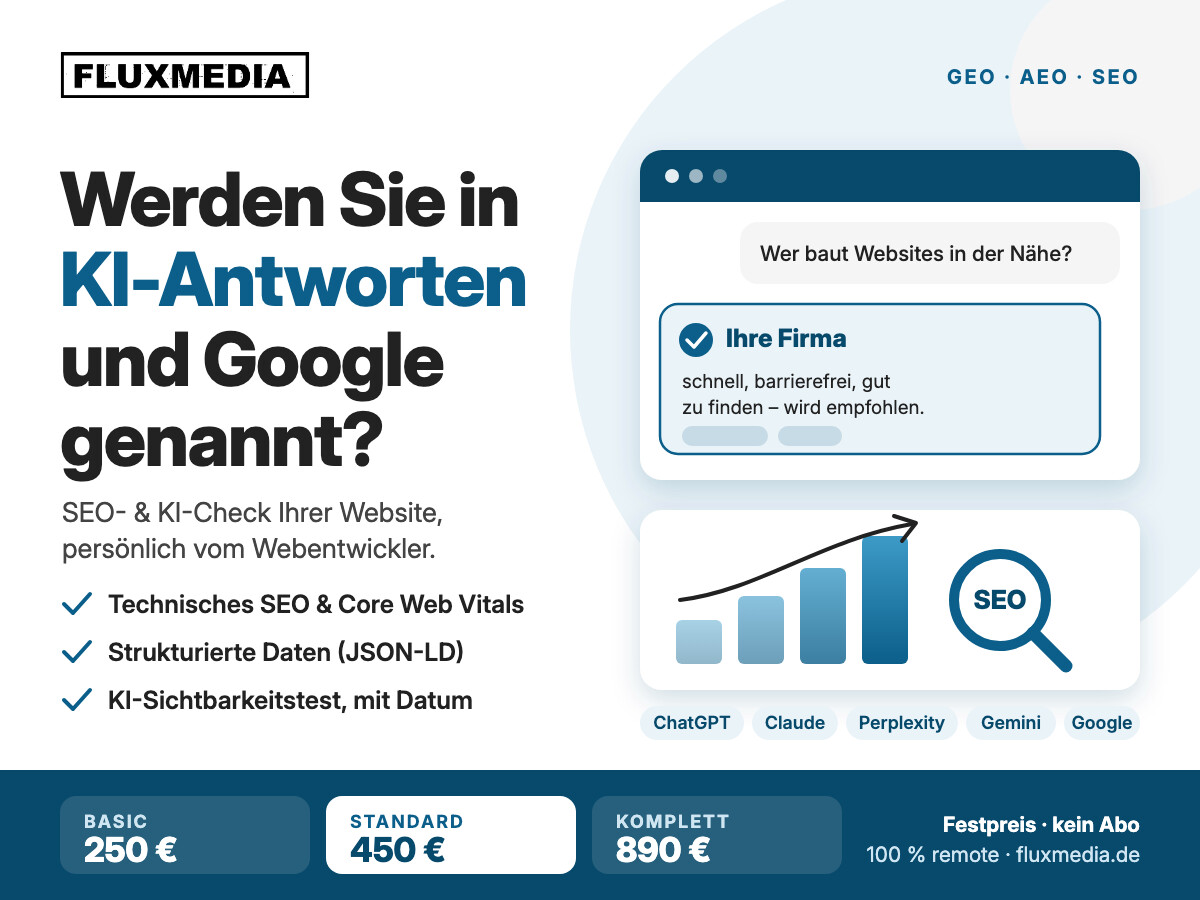
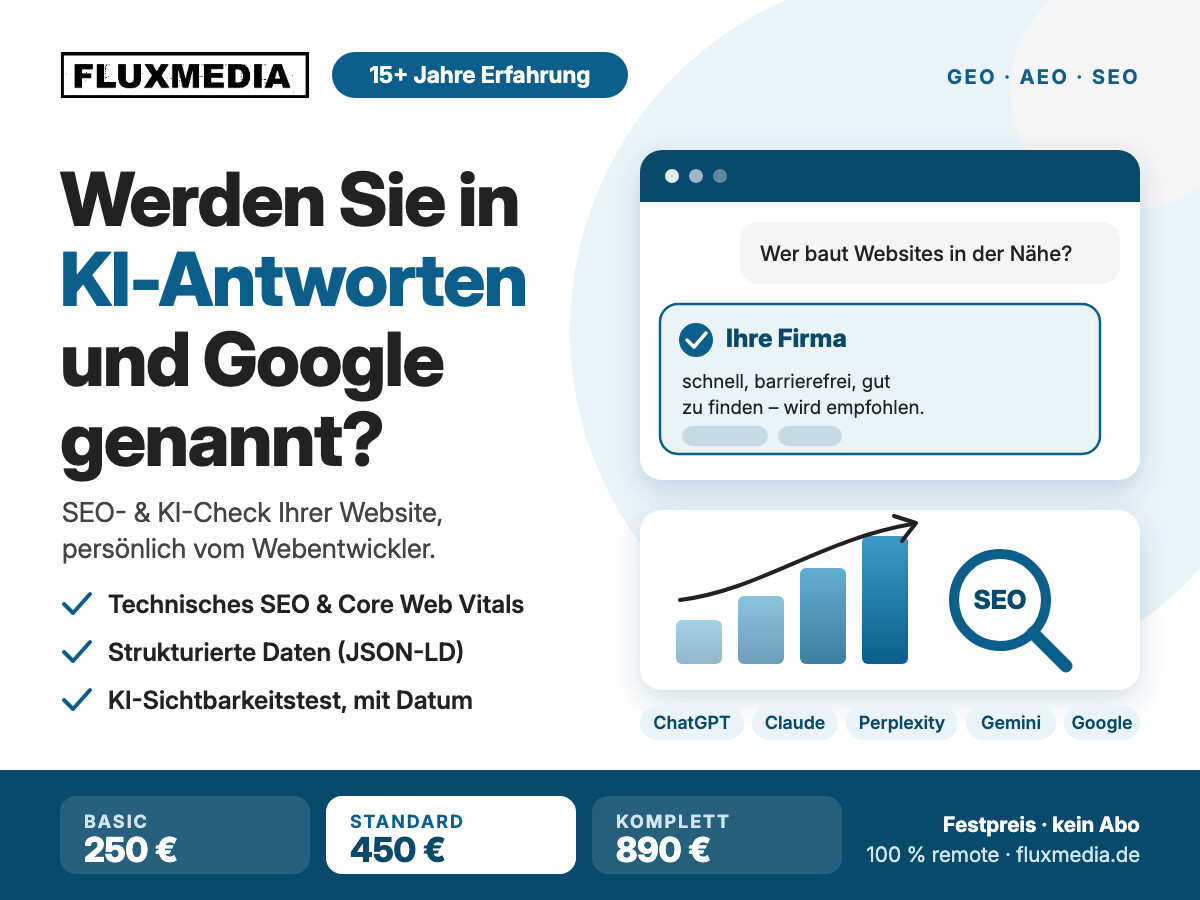
Experience claim: 15+ years instead of 10 on the site, in the docs, the Kleinanzeigen ad text and the thumbnail

Changed region(s): [[0.2775, 0.0311, 0.5242, 0.1244]]

diff --git a/docs/content-de-en.md b/docs/content-de-en.md
@@ -254,9 +254,9 @@ Notes: consider follow 1) evaluate effort to deliver each of the services 2) con
 | Key                              | Deutsch                                                                                                                                                                                                                                                                                                                                                                                                                                                                        | English                                                                                                                                                                                                                                                                                                                                                                             |
 | -------------------------------- | ------------------------------------------------------------------------------------------------------------------------------------------------------------------------------------------------------------------------------------------------------------------------------------------------------------------------------------------------------------------------------------------------------------------------------------------------------------------------------ | ----------------------------------------------------------------------------------------------------------------------------------------------------------------------------------------------------------------------------------------------------------------------------------------------------------------------------------------------------------------------------------- |
 | `home.seoTitle`                  | Webentwicklung am Bodensee: schnell, barrierefrei, KI-sichtbar \| Fluxmedia                                                                                                                                                                                                                                                                                                                                                                                                    | Web development on Lake Constance: fast, accessible, AI-visible \| Fluxmedia                                                                                                                                                                                                                                                                                                        |
-| `home.description`               | Fluxmedia, Webentwickler am Bodensee mit über 10 Jahren Erfahrung: kostenlose SEO- und KI-Analyse, Website-Relaunch, WordPress-Support und Barrierefreiheit zum Festpreis.                                                                                                                                                                                                                                                                                                     | Fluxmedia, web developer on Lake Constance with over 10 years of experience: free SEO and AI analysis, website relaunch, WordPress support and accessibility at fixed prices.                                                                                                                                                                                                       |
+| `home.description`               | Fluxmedia, Webentwickler am Bodensee mit über 15 Jahren Erfahrung: kostenlose SEO- und KI-Analyse, Website-Relaunch, WordPress-Support und Barrierefreiheit zum Festpreis.                                                                                                                                                                                                                                                                                                     | Fluxmedia, web developer on Lake Constance with over 10 years of experience: free SEO and AI analysis, website relaunch, WordPress support and accessibility at fixed prices.                                                                                                                                                                                                       |
 | `home.h1`                        | Ihre Website: schnell, barrierefrei und in KI-Antworten sichtbar.                                                                                                                                                                                                                                                                                                                                                                                                              | Your website: fast, accessible and visible in AI answers.                                                                                                                                                                                                                                                                                                                           |
-| `home.sub`                       | Über 10 Jahre Erfahrung in Webentwicklung am Bodensee                                                                                                                                                                                                                                                                                                                                                                                                                          | Over 10 years of experience in web development on Lake Constance Pre Lake Constance in Berlin for 10+ years                                                                                                                                                                                                                                                                         |
+| `home.sub`                       | Über 15 Jahre Erfahrung in Webentwicklung am Bodensee                                                                                                                                                                                                                                                                                                                                                                                                                          | Over 10 years of experience in web development on Lake Constance Pre Lake Constance in Berlin for 10+ years                                                                                                                                                                                                                                                                         |
 | `home.analysisTitle`             | Kostenlose SEO- & KI-Analyse Ihrer Website                                                                                                                                                                                                                                                                                                                                                                                                                                     | Free SEO & AI analysis of your website                                                                                                                                                                                                                                                                                                                                              |
 | `home.analysisText`              | Persönlich vom Webentwickler, nicht automatisch erzeugt. Sie erhalten einen kurzen PDF-Bericht innerhalb von 48 Stunden.                                                                                                                                                                                                                                                                                                                                                       | Done personally by a web developer, not generated automatically. You receive a short PDF report within 48 hours.                                                                                                                                                                                                                                                                    |
 | `home.leadServices`              | Unsere Leistungen                                                                                                                                                                                                                                                                                                                                                                                                                                                              | Our services                                                                                                                                                                                                                                                                                                                                                                        |
@@ -266,7 +266,7 @@ Notes: consider follow 1) evaluate effort to deliver each of the services 2) con
 | `home.steps[1]`                  | Analyse in 48 Stunden                                                                                                                                                                                                                                                                                                                                                                                                                                                          | Analysis in 48 hours                                                                                                                                                                                                                                                                                                                                                                |
 | `home.steps[2]`                  | Gespräch                                                                                                                                                                                                                                                                                                                                                                                                                                                                       | Conversation                                                                                                                                                                                                                                                                                                                                                                        |
 | `home.steps[3]`                  | Festpreis                                                                                                                                                                                                                                                                                                                                                                                                                                                                      | Fixed price                                                                                                                                                                                                                                                                                                                                                                         |
-| `home.trust[0]`                  | Über 10 Jahre Erfahrung                                                                                                                                                                                                                                                                                                                                                                                                                                                        | Over 10 years of experience                                                                                                                                                                                                                                                                                                                                                         |
+| `home.trust[0]`                  | Über 15 Jahre Erfahrung                                                                                                                                                                                                                                                                                                                                                                                                                                                        | Over 10 years of experience                                                                                                                                                                                                                                                                                                                                                         |
 | `home.trust[1]`                  | Server in Deutschland                                                                                                                                                                                                                                                                                                                                                                                                                                                          | Servers in Germany                                                                                                                                                                                                                                                                                                                                                                  |
 | `home.trust[2]`                  | DSGVO-bewusst                                                                                                                                                                                                                                                                                                                                                                                                                                                                  | GDPR-conscious                                                                                                                                                                                                                                                                                                                                                                      |
 | `home.trust[3]`                  | Festpreis                                                                                                                                                                                                                                                                                                                                                                                                                                                                      | Fixed prices                                                                                                                                                                                                                                                                                                                                                                        |
@@ -325,7 +325,7 @@ Notes: consider follow 1) evaluate effort to deliver each of the services 2) con
 | `quote.scopes[4]`                | Weiß ich noch nicht                                                                                                                                                                                                                                                                                                                                                                                                                                                            | Not sure yet                                                                                                                                                                                                                                                                                                                                                                        |
 | `quote.extra`                    | Shops (WooCommerce, Shopify) sind auf Anfrage möglich.                                                                                                                                                                                                                                                                                                                                                                                                                         | Shops (WooCommerce, Shopify) are possible on request. Stripe & PayPal integration                                                                                                                                                                                                                                                                                                   |
 | `references.seoTitle`            | Referenzen \| Fluxmedia                                                                                                                                                                                                                                                                                                                                                                                                                                                        | References \| Fluxmedia                                                                                                                                                                                                                                                                                                                                                             |
-| `references.description`         | Ausgewählte Projekte aus über 10 Jahren Webentwicklung am Bodensee.                                                                                                                                                                                                                                                                                                                                                                                                            | Selected projects from over 10 years of web development on Lake Constance.                                                                                                                                                                                                                                                                                                          |
+| `references.description`         | Ausgewählte Projekte aus über 15 Jahren Webentwicklung am Bodensee.                                                                                                                                                                                                                                                                                                                                                                                                            | Selected projects from over 10 years of web development on Lake Constance.                                                                                                                                                                                                                                                                                                          |
 | `references.h1`                  | Referenzen                                                                                                                                                                                                                                                                                                                                                                                                                                                                     | References                                                                                                                                                                                                                                                                                                                                                                          |
 | `references.lead`                | Eine kleine Auswahl unserer Arbeit. Aktuelle Beispiele und Vorher-Nachher-Vergleiche folgen.                                                                                                                                                                                                                                                                                                                                                                                   | A small selection of our work. Current examples and before/after comparisons will follow.                                                                                                                                                                                                                                                                                           |
 | `references.visit`               | Website besuchen                                                                                                                                                                                                                                                                                                                                                                                                                                                               | Visit website                                                                                                                                                                                                                                                                                                                                                                       |
@@ -357,7 +357,7 @@ Notes: consider follow 1) evaluate effort to deliver each of the services 2) con
 | `about.description`              | Steven Greenwood, Webentwickler in Überlingen am Bodensee: über 25 Jahre Softwareentwicklung, Forschung und E-Commerce. Persönlich und transparent. |
 | `about.h1`                       | Über mich |
 | `about.lead`                     | Ich bin Steven Greenwood, Webentwickler am Bodensee. Mit Fluxmedia baue ich schnelle, barrierefreie und gut auffindbare Websites. Sie sprechen direkt mit dem, der Ihre Website baut. |
-| `about.body[0]`                  | Seit über 25 Jahren entwickle ich Software, seit mehr als zehn Jahren vor allem für das Web: vom Onlineshop bis zum Webauftritt für Institutionen. Ich setze auf bewährte, offene Technik und lege Wert auf Geschwindigkeit, Barrierefreiheit und saubere Struktur. |
+| `about.body[0]`                  | Seit über 25 Jahren entwickle ich Software, seit mehr als fünfzehn Jahren vor allem für das Web: vom Onlineshop bis zum Webauftritt für Institutionen. Ich setze auf bewährte, offene Technik und lege Wert auf Geschwindigkeit, Barrierefreiheit und saubere Struktur. |
 | `about.body[1]`                  | Diese Website ist mein Beleg: ohne Tracking, ohne Drittanbieter-Schriften und mit messbaren Ergebnissen. Bei der Arbeit setze ich auch KI-Werkzeuge ein – jedes Ergebnis prüfe ich selbst. |
 | `about.focus`, `about.background` | General descriptions (no CV details: no employers, clients, dates or publication list). Focus areas are the main block; see `src/content/de.json` and `en.json`. The full CV stays in `docs/about-me/` |
 | `about.values[0]`                | Persönlich und transparent                                                                                                                                                                                                                                                                                                                                                                                                                                                     | Personal and transparent                                                                                                                                                                                                                                                                                                                                                            |

diff --git a/docs/marketing/kleinanzeiger/ki-sichtbarkeit-anzeige.md b/docs/marketing/kleinanzeiger/ki-sichtbarkeit-anzeige.md
@@ -32,8 +32,8 @@ Alternative if the price should not be in the title: `SEO- & KI-Check: Werden Si
 Wird Ihre Firma in Google, ChatGPT, Claude und Perplexity gefunden?
 
 Ich prüfe Ihre Website technisch und inhaltlich, teste, wie Ihre Firma in KI-Antworten erscheint, und sage Ihnen,
-was zu tun ist. Auf Wunsch setze ich die wichtigsten Punkte direkt um. Persönlich vom Webentwickler am Bodensee,
-nicht automatisch erzeugt. Festpreis, kein Abo, 100 % remote.
+was zu tun ist. Auf Wunsch setze ich die wichtigsten Punkte direkt um. Persönlich vom Webentwickler am Bodensee mit
+über 15 Jahren Erfahrung, nicht automatisch erzeugt. Festpreis, kein Abo, 100 % remote.
 
 ZUM KENNENLERNEN: KOSTENLOSER STARTSEITEN-CHECK
 Kurzer PDF-Bericht zu Ihrer Startseite innerhalb von 48 Stunden (2 Werktage), unverbindlich. Die Anzahl pro Woche
@@ -86,6 +86,8 @@ Fluxmedia, Inhaber Steven Greenwood, Bodensee. Schreiben Sie mir einfach hier ü
 Notes on the wording:
 
 - "Nicht automatisch erzeugt" and "persönlich vom Webentwickler" repeat the site's own claims (analysis page).
+- "Über 15 Jahre Erfahrung" (ad text) and "15+ Jahre Erfahrung" (thumbnail badge) match the home page (`pages.home.sub` and
+  `trust[0]`). The claim must be provable (UWG, `legal-audit.md` section 7); keep a CV or project list that shows it.
 - No ranking promise appears anywhere; "wird empfohlen" is only in the thumbnail's mock chat and is illustrative. If the
   ad is challenged, the "Wichtig" block is the safeguard.
 - The 48-hour and weekly-limit wording follows `pages.analysis` on the site.
@@ -220,6 +222,7 @@ Sachschäden mit USA-Bezug gelten Einschränkungen.
 
 | Item | Ad | Site today | Action |
 |---|---|---|---|
+| Experience "15+ Jahre" | ad text and thumbnail badge | home page says "Über 15 Jahre Erfahrung" (after the next deploy) | Deploy the site change; keep proof of the claim |
 | Packages 250 / 450 / 890 € | in the ad | the page `/leistungen/ki-sichtbarkeit/` still says "ab 450 €" | Update the site page **before or at the same time** as the ad, or the ad contradicts it |
 | Hourly rate 70 € / 50 € | not in the ad | "ab 50 € pro Stunde" | Keep out of the ad; update site wording (see competition doc, section 7) |
 | Security check, accessibility add-on | in the ad | not described as a package | Add to the site, and clear the passive security check with exali (to-do 52) |

diff --git a/docs/legal-audit.md b/docs/legal-audit.md
@@ -16,7 +16,7 @@ them. "Check" means *someone qualified should look at it*, not that something is
 | 3 | ~~Fix soon~~ **Implemented 2026-10-19**, review still open | Privacy policy rewritten with the standard structure (section 4). Still to confirm: the processor agreement with netcup, the log retention at netcup, the daily cron job, and a legal review of the text | you, lawyer / DPO |
 | 4 | **Fix soon** | Impressum: check completeness (§ 18 MStV, dispute resolution, VAT ID vs small-business rule) | lawyer, Steuerberater |
 | 5 | Check | `hero.jpg` and the other site images: source and licence not recorded | you |
-| 6 | Check | Marketing claims on the site must be provable (UWG): "Über 10 Jahre Erfahrung", "Server in Deutschland", "DSGVO-bewusst", "Festpreis", prices | you |
+| 6 | Check | Marketing claims on the site must be provable (UWG): "Über 15 Jahre Erfahrung", "Server in Deutschland", "DSGVO-bewusst", "Festpreis", prices | you |
 | 7 | Check | Consumers or only businesses? If consumers: price display, withdrawal right, terms | lawyer |
 | 8 | Check | Follow-up emails after the free analysis need a legal basis (UWG § 7) | you |
 | 9 | Check | Records and processors: processing register, processor agreement with netcup, security measures document | you |
@@ -169,7 +169,7 @@ German law has no rule that allows it by default. The question is decided case b
 ## 7. Advertising claims and prices (UWG, PAngV)
 
 Claims on the site that you must be able to prove on request:
-- "Über 10 Jahre Erfahrung" / "Over 10 years" (the site says Bodensee; your own notes mention Berlin earlier: align the wording with the facts).
+- "Über 15 Jahre Erfahrung" / "Over 15 years" (the site says Bodensee; your own notes mention Berlin earlier: align the wording with the facts).
 - "Server in Deutschland" / "Gehostet in Deutschland": true for the netcup hosting if the data centre is in Germany;
   the technical sections of the service pages mention AWS and Cloudflare as stack options for client projects, which is
   fine as long as they are not described as part of this site.

diff --git a/docs/competition-kleinanzeiger.md b/docs/competition-kleinanzeiger.md
@@ -65,7 +65,7 @@ Observations:
 | Guarantees                        | Puschmann honest, WLP implied                                | "cannot be guaranteed", in services and FAQ                                               | On a par with the best                                                                                                               |
 | Location / delivery               | +200 km, partly on site                                      | Bodensee, remote, no travel costs                                                         | Remote-only avoids travel costs that two ads mention                                                                                 |
 | Free element                      | Henrich (feasibility + price estimate), WLP (consultation)   | Free start-page check, limited per week                                                   | Stronger than the others (a concrete report, not a call)                                                                             |
-| Trust signals                     | WLP: "15 years, 1,000 projects", customer centre             | 10+ years of experience, references on the site, no tracking                              | Add the reference page link to the ad                                                                                                |
+| Trust signals                     | WLP: "15 years, 1,000 projects", customer centre             | 15+ years of experience, references on the site, no tracking                              | Add the reference page link to the ad                                                                                                |
 | Legal                             | outdated or incomplete in half of the ads                    | DDG Impressum, Widerruf, Datenschutz, insurance information                               | Ahead; keep it that way                                                                                                              |
 
 ## 4. Where Fluxmedia is weaker

diff --git a/docs/development-todo.md b/docs/development-todo.md
@@ -87,7 +87,7 @@ Items from your review notes in `docs/content-de-en.md` that are **not applied y
 
 | # | Pri | Type | Task | Notes | Effort |
 |---|---|---|---|---|---|
-| 24 | P2 | content | **Experience wording**: "over 10 years in web development, in Berlin and on Lake Constance" in `pages.home.sub` | the claim must match the facts (legal-audit section 7) | S |
+| 24 | P2 | content | **Experience wording**: "over 15 years in web development, in Berlin and on Lake Constance" (owner changed the claim from 10 to 15+ years on 2026-10-31) in `pages.home.sub` | the claim must match the facts (legal-audit section 7) | S |
 | 25 | P2 | content | **Shops**: mention Stripe (and PayPal only if you have shipped it) in `services.relaunch` FAQ and `pages.quote.extra` | note the payment providers in the privacy policy when a shop is built | S |
 | 26 | P2 | content | **Remote work**: say "personally on Lake Constance, remotely throughout Germany" | `areaServed` is already `DE` in the structured data | S |
 | 27 | P2 | content | **LinkedIn link** on the about page, plus `sameAs` in the structured data | needs the profile URL; plain link, no embed | S |
